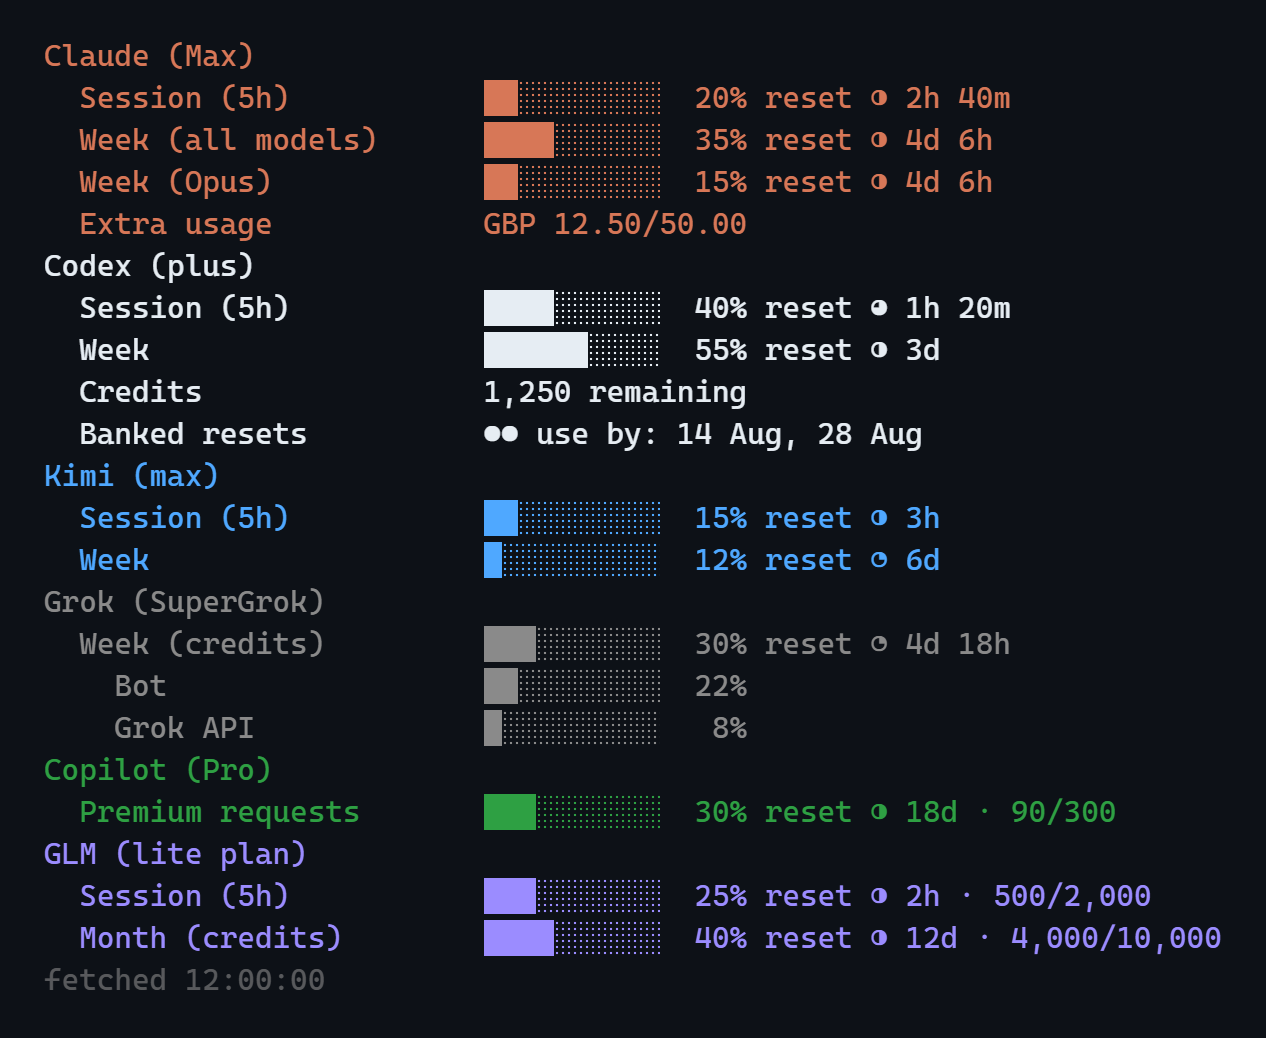
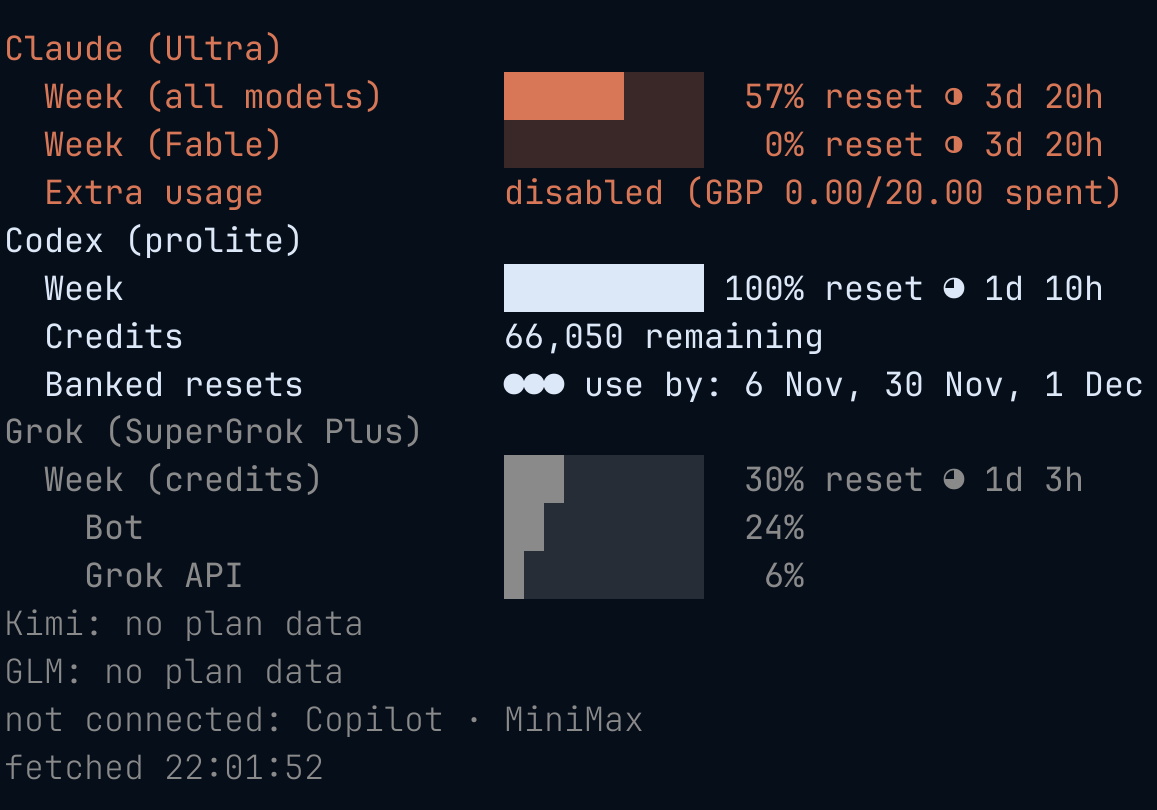
docs: use a live /usage screenshot in the README
Show real /usage output: a Claude plan with no 5h window, the Codex
credit balance, and the Grok weekly pool with its Bot and Grok API
slices. The alt text no longer calls the image synthetic.

Changed region(s): [[0.0, 0.0309, 0.9646, 0.9568], [0.3734, 0.0617, 0.9646, 0.4321], [0.9023, 0.463, 0.9957, 0.4938]]

diff --git a/README.md b/README.md
@@ -2,7 +2,7 @@
 
 A [pi](https://pi.dev) coding agent extension that adds a `/usage` command showing **subscription quota for every provider you're connected to** — one compact, colour-coded block instead of a dashboard per provider. Claude, Codex, Kimi, Grok, and GitHub Copilot authenticate via pi's OAuth; the GLM and MiniMax plans use the API keys pi already holds (`ZAI_API_KEY` / `ZAI_CODING_CN_API_KEY`, `MINIMAX_API_KEY` / `MINIMAX_CN_API_KEY`). Pay-as-you-go accounts without a plan (DeepSeek, MiniMax `sk-api-` keys) are out of scope by design: this meters plans. A credit balance that belongs to a metered plan, such as Codex credits, shows in that plan's block.
 
-![Colour-coded usage meters for Claude, Codex, Kimi, Grok, Copilot, and GLM (synthetic fixture data)](https://raw.githubusercontent.com/Quigleybits/pi-usage-meters/main/assets/pi-usage.png)
+![Colour-coded usage meters for Claude, Codex, and Grok, from a live /usage](https://raw.githubusercontent.com/Quigleybits/pi-usage-meters/main/assets/pi-usage.png)
 
 Each provider block is colour-coded on your terminal's existing background, bars fill left-to-right with usage, and the pie glyph (`○ ◔ ◑ ◕ ●`) fills as the quota window elapses toward reset. The entry renders in the transcript but never enters LLM context.
 
